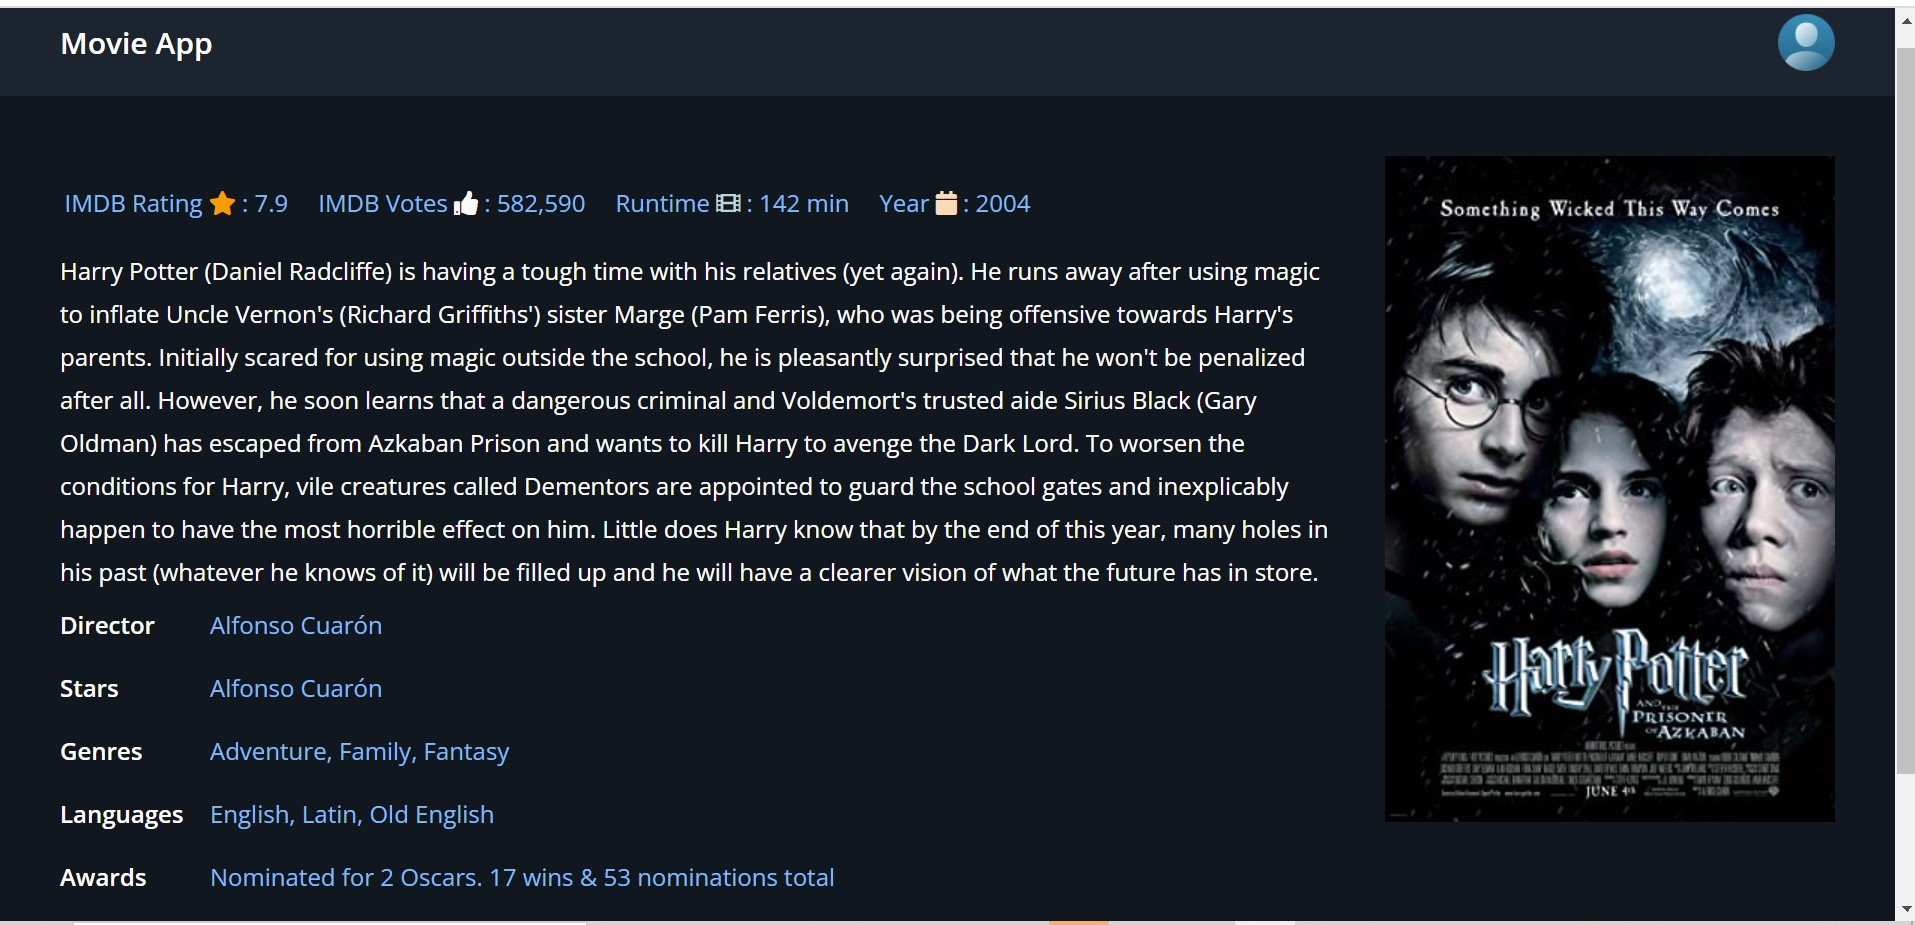
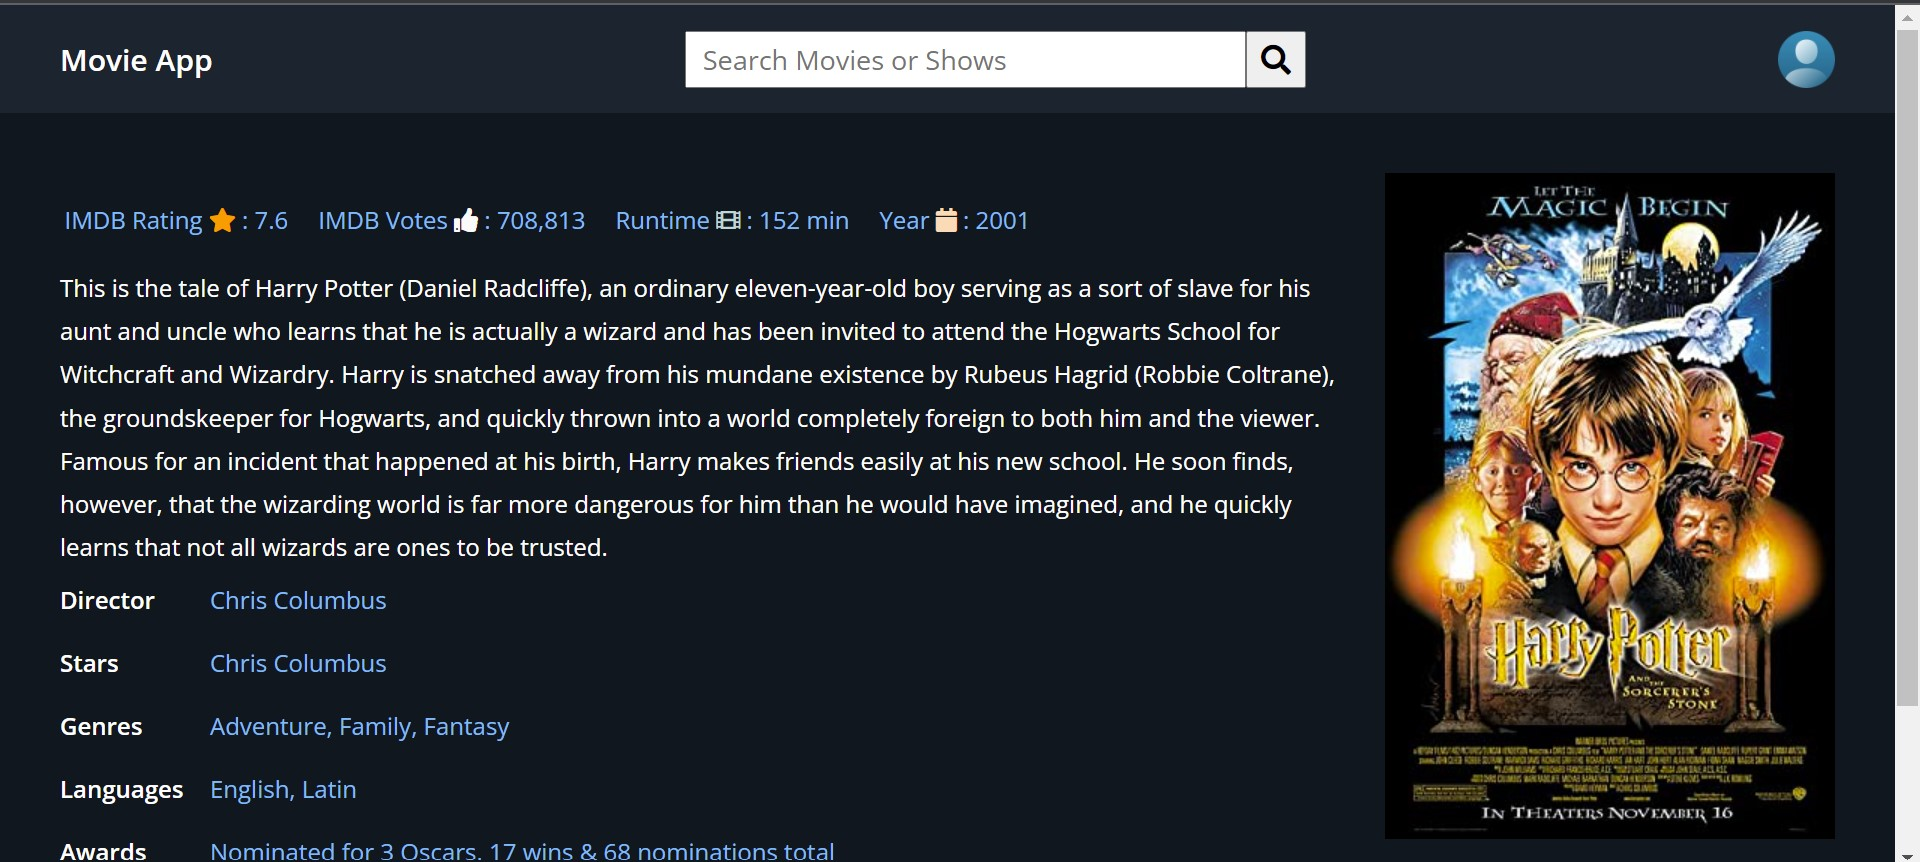
updated screenshots

Changed region(s): [[0.0, 0.0, 1.0, 1.0]]

diff --git a/README.md b/README.md
@@ -12,6 +12,8 @@
 ### Features
 - View list of movies and shows
 - View individual movie/show details
+- Slider
+- Search
 
 ![image](https://github.com/harita-gr/Movies_app/blob/49dc178e6a09626c277afb5a29fabd9829d43bbd/Screenshot%202021-11-09%20121141.jpg)
 
